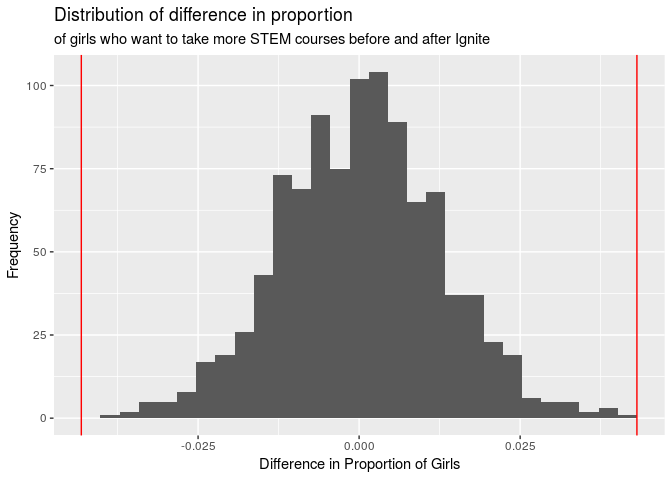
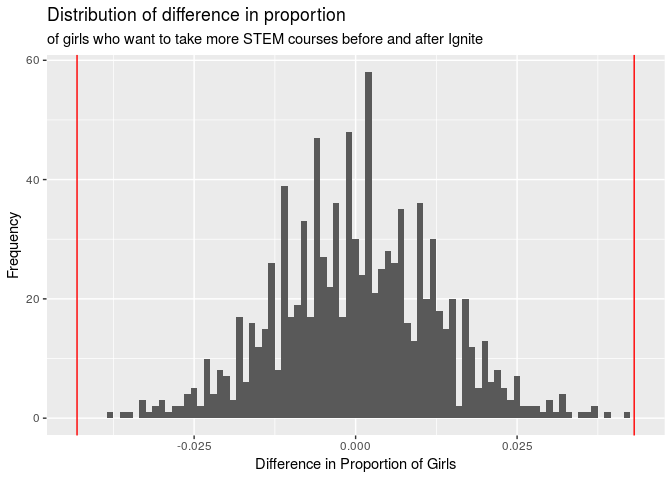
Update

diff --git a/FINAL_Simulations.md b/FINAL_Simulations.md
@@ -537,13 +537,11 @@ permute_all <- all %>%
 ``` r
 ggplot(data = permute_all, 
        mapping = aes(x = stat)) +
-  geom_histogram() +
+  geom_histogram(binwidth = 0.001) +
   labs(title = "Distribution of difference in proportion", subtitle = "of girls who want to take more STEM courses before and after Ignite", x = "Difference in Proportion of Girls", y = "Frequency") +
     geom_vline(xintercept = 0.04312676, color = "red") +
   geom_vline(xintercept = -0.04312676, color = "red")
 ```
-
-    ## `stat_bin()` using `bins = 30`. Pick better value with `binwidth`.
 
 ![](FINAL_Simulations_files/figure-gfm/unnamed-chunk-11-1.png)<!-- -->
 
